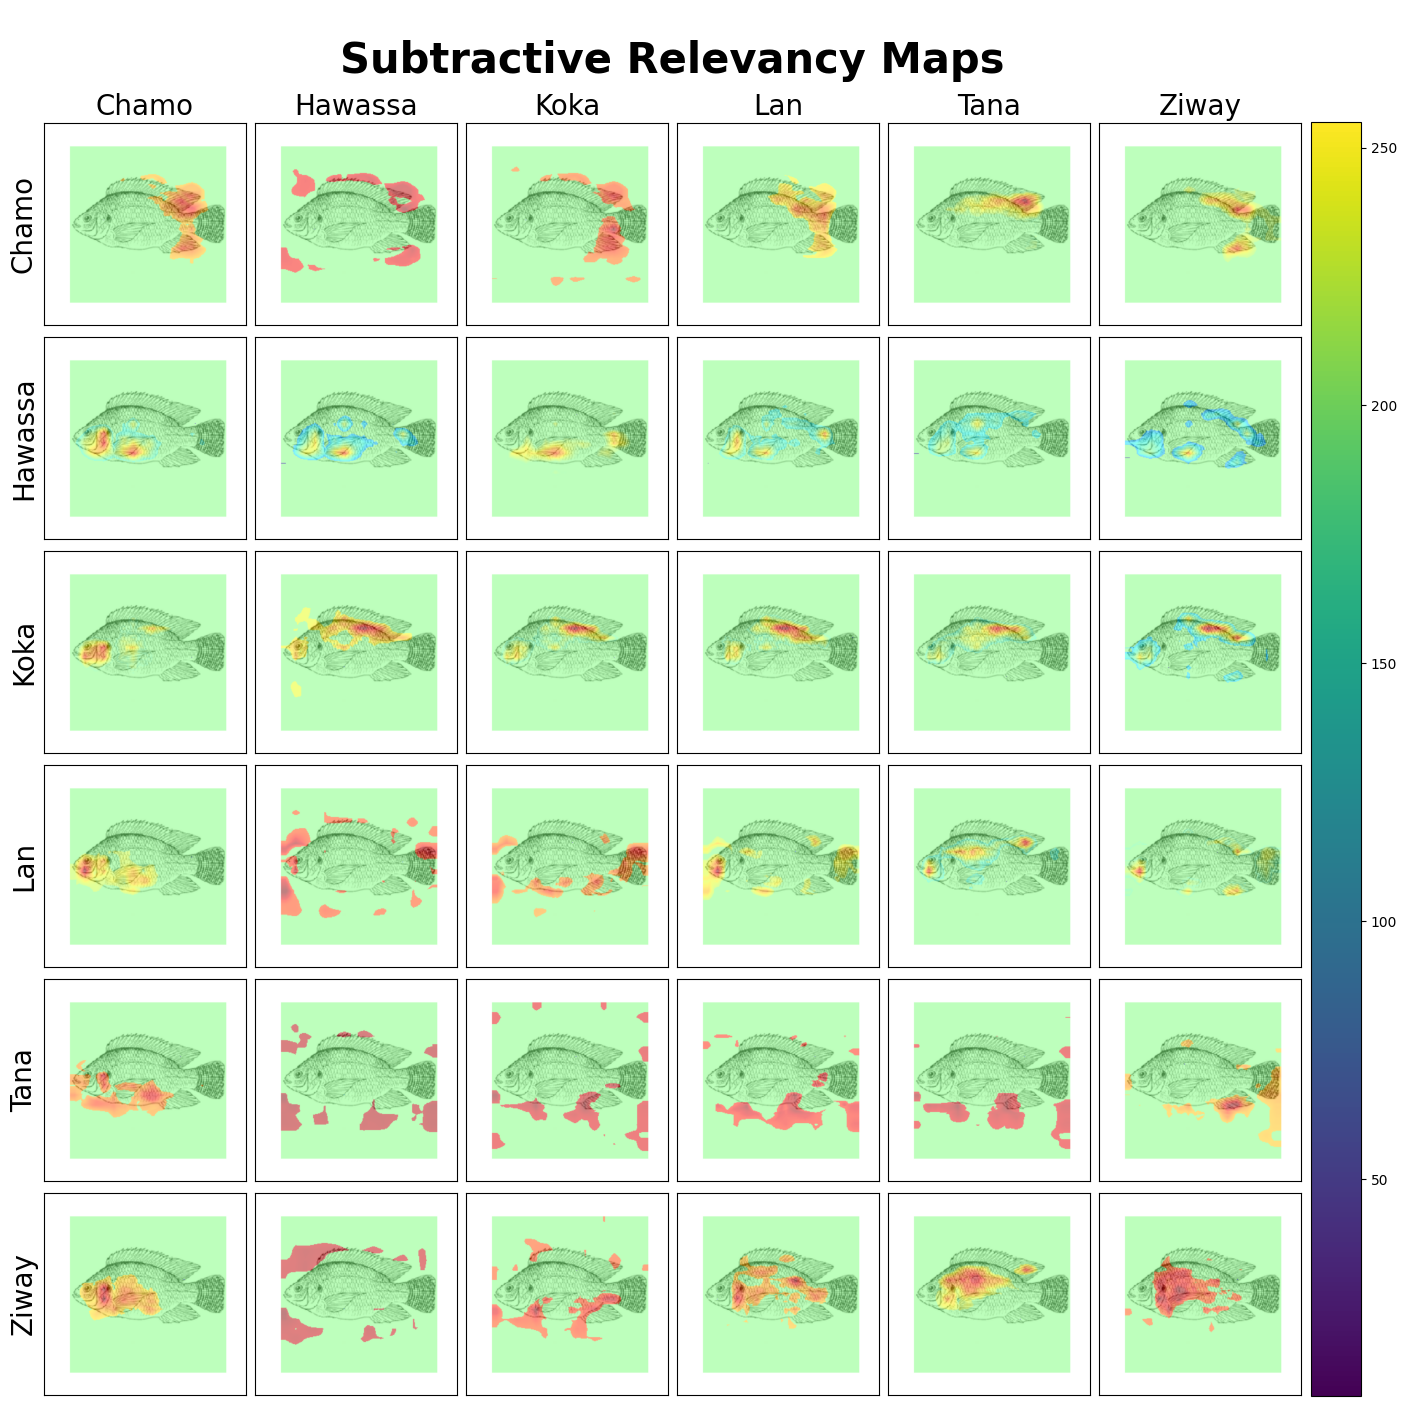
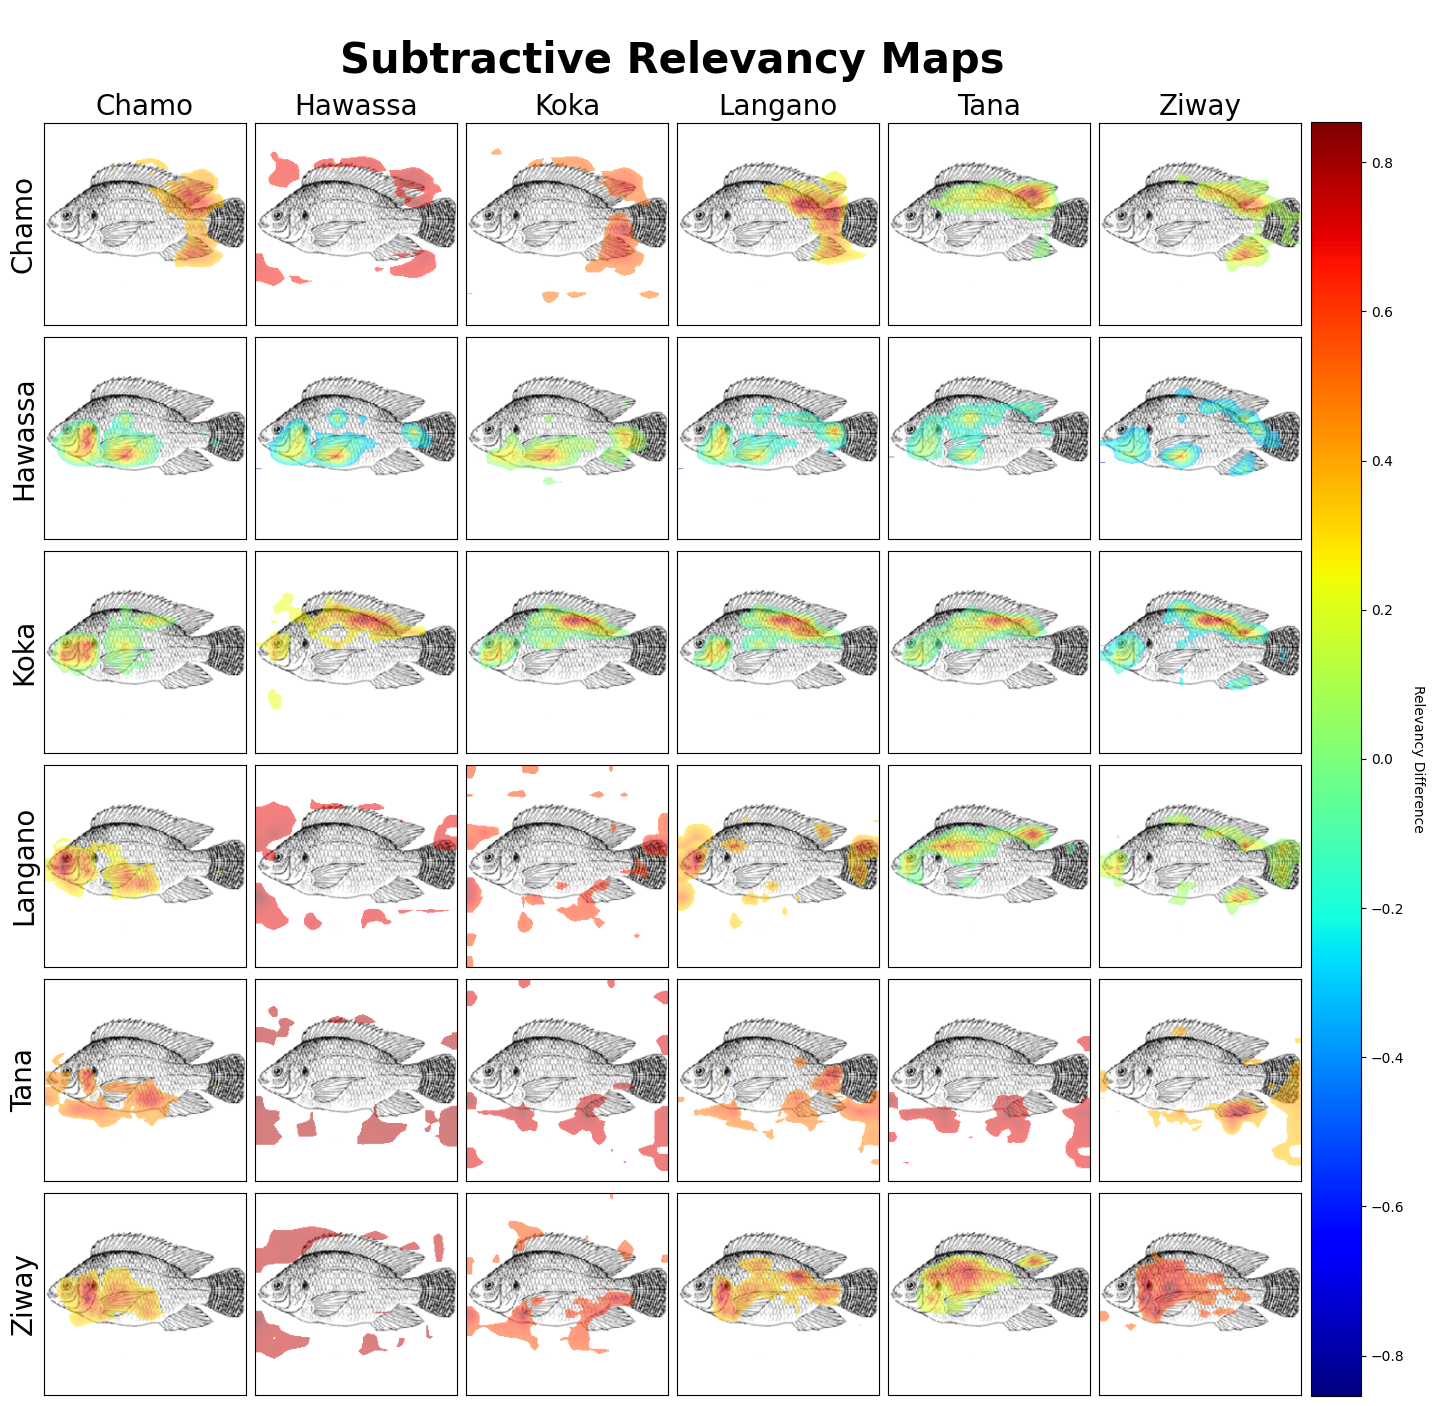
improved analysis

diff --git a/code/visualize.py b/code/visualize.py
@@ -6,7 +6,7 @@ from matplotlib.offsetbox import OffsetImage, AnnotationBbox
 from matplotlib import cm
 from skimage.transform import resize
 
-from config import cutoffWeightAttention, transparencyAboveCutoff, cmapType, resultsFolder, classes, relevancyOperations, pathImages
+from config import cutoffWeightAttention, transparencyAboveCutoff, cmapType, resultsFolder, classes, relevancyOperations, pathImages, percentile
 
 def boxCoordinates(i, xLim, yLim, rows, cols):
     offsetX = xLim / cols
@@ -182,14 +182,48 @@ def visualizeRelevancyMap(relevancyMapDict, saveImages = False):
             plt.show()
 
 def combineRelevancyMaps(mapDict):
-    def saveHeatmap(array, name):
+    def saveHeatmap(array, className, operationName):
+        fishImagePath = os.path.join(pathImages, f"{className}01.jpg")
+        if className == "allClasses":
+            fishImagePath = "../data/oreochromis niloticus_modified.png"
+        
         savePath = os.path.join(resultsFolder, "summary")
-        plt.figure(figsize=(6, 6))
-        plt.imshow(array, cmap=cmapType)
-        plt.axis("off")
-        plt.colorbar()
-        plt.savefig(os.path.join(savePath, f"{name}RelevancyMap.png"))
-        plt.close()
+        
+        # Filter to show only top X% of relevancies
+        array_filtered = array.copy()
+        threshold = np.percentile(np.abs(array_filtered[array_filtered != 0]), 100-percentile)
+        array_filtered[np.abs(array_filtered) < threshold] = 0  #all else = 0
+        
+        if os.path.exists(fishImagePath):
+            vmax = np.max(np.abs(array_filtered[array_filtered != 0])) if np.any(array_filtered != 0) else 1
+            vmin = -vmax
+            overlayImage = overlayFishWithRelevancy(fishImagePath, array_filtered, vmin, vmax, 0.5)
+            
+            fig, ax = plt.subplots(figsize=(8, 6))
+            ax.imshow(overlayImage)
+            ax.axis("off")
+            
+            cmap = plt.cm.get_cmap(cmapType)
+            norm = plt.Normalize(vmin=vmin, vmax=vmax)
+            sm = plt.cm.ScalarMappable(cmap=cmap, norm=norm)
+            sm.set_array([])  # Empty array for the mappable
+            
+            cbar = plt.colorbar(sm, ax=ax, shrink=0.8)
+            cbar.set_label('Relevancy (Top 10%)', rotation=270, labelpad=15)
+            
+            plt.savefig(os.path.join(savePath, f"{className}_{operationName}_RelevancyMap.png"), 
+                       bbox_inches='tight', dpi=100)
+            plt.close()
+        else:
+            # Fallback: regular heatmap without overlay
+            plt.figure(figsize=(6, 6))
+            vmax = np.max(np.abs(array_filtered[array_filtered != 0])) if np.any(array_filtered != 0) else 1
+            vmin = -vmax
+            im = plt.imshow(array_filtered, cmap=cmapType, vmin=vmin, vmax=vmax)
+            plt.axis("off")
+            plt.colorbar(im)
+            plt.savefig(os.path.join(savePath, f"{className}_{operationName}_RelevancyMap.png"))
+            plt.close()
     
     relevancies = {name: [] for name in classes}
     for indivKey, indivEntry in mapDict.items():
@@ -208,19 +242,19 @@ def combineRelevancyMaps(mapDict):
         if relevancyOperations["mean"]:
             mean = np.mean(np.stack(relevancies[className], axis=0), axis=0)
             classSummaries["mean"][className] = mean
-            saveHeatmap(mean, f"{className}_mean")
+            saveHeatmap(mean, className, "mean")
         if relevancyOperations["median"]:
             median = np.median(np.stack(relevancies[className], axis=0), axis=0)
             classSummaries["median"][className] = median
-            saveHeatmap(median, f"{className}_median")
+            saveHeatmap(median, className, "median")
         if relevancyOperations["std"]:
             std = np.std(np.stack(relevancies[className], axis=0), axis=0)
             classSummaries["std"][className] = std
-            saveHeatmap(std, f"{className}_std")
+            saveHeatmap(std, className, "std")
         if relevancyOperations.get("max", False):
             maxArray = np.max(np.stack(relevancies[className], axis=0), axis=0)
             classSummaries["max"][className] = maxArray
-            saveHeatmap(maxArray, f"{className}_max")
+            saveHeatmap(maxArray, className, "max")
 
     allClasses = []
     for className, relevancyList in relevancies.items():
@@ -228,19 +262,19 @@ def combineRelevancyMaps(mapDict):
 
     if relevancyOperations.get("mean", False):
         meanAll = np.mean(allClasses, axis=0)
-        saveHeatmap(meanAll, "allClasses_mean")
+        saveHeatmap(meanAll, "allClasses", "mean")
 
     if relevancyOperations.get("median", False):
         medianAll = np.median(allClasses, axis=0)
-        saveHeatmap(medianAll, "allClasses_median")
+        saveHeatmap(medianAll, "allClasses", "median")
 
     if relevancyOperations.get("std", False):
         stdAll = np.std(allClasses, axis=0)
-        saveHeatmap(stdAll, "allClasses_std")
+        saveHeatmap(stdAll, "allClasses", "std")
 
     if relevancyOperations.get("max", False):
         maxAll = np.max(allClasses, axis=0)
-        saveHeatmap(maxAll, "allClasses_max")
+        saveHeatmap(maxAll, "allClasses", "max")
     
     print(f"Total relevancy maps across all classes: {len(allClasses)}")
 
@@ -248,21 +282,44 @@ def combineRelevancyMaps(mapDict):
 
 def overlayFishWithRelevancy(fishImagePath, resultFiltered, vmin, vmax, alpha=0.5):
     fishImage = mpimg.imread(fishImagePath)
-    
-    if fishImage.shape[-1] == 4:
-        fishImage = fishImage[:, :, :3]
-    
-    fig, ax = plt.subplots(figsize=(10, 10))
-    ax.axis('off')
-    ax.imshow(fishImage)
-    
-    im = ax.imshow(resultFiltered, cmap=cmapType, vmin=vmin, vmax=vmax, alpha=alpha)
+    # Handle different image formats properly
+    if fishImage.ndim == 2:  # Already grayscale
+        fishImage = np.stack([fishImage] * 3, axis=-1)  # Convert to RGB
+    elif fishImage.ndim == 3:
+        if fishImage.shape[2] == 1:  # Grayscale with extra dimension
+            fishImage = np.squeeze(fishImage, axis=2)
+            fishImage = np.stack([fishImage] * 3, axis=-1)
+        elif fishImage.shape[2] == 4:  # RGBA
+            fishImage = fishImage[:, :, :3]
+        elif fishImage.shape[2] == 3:  # Already RGB
+            pass  # Do nothing
+        else:
+            print(f"Warning: Unexpected image shape {fishImage.shape}")
+            fishImage = fishImage[:, :, :3]
 
-    fig.canvas.draw()
-    buf = np.array(fig.canvas.renderer.buffer_rgba())[:, :, :3]
-    plt.close(fig)
     
-    return buf
+    if fishImage.max() > 1: #normalize
+        fishImage = fishImage / 255.0
+    
+    cmap = plt.cm.get_cmap(cmapType)
+    
+    zero_mask = (resultFiltered == 0)   #zero values remain unchaged
+    
+    norm_relevancy = (resultFiltered - vmin) / (vmax - vmin)    #normalize relevancy
+    norm_relevancy = np.clip(norm_relevancy, 0, 1)
+    
+    colored_relevancy = cmap(norm_relevancy)[:, :, :3]  #apply relevancy
+    
+    alpha_mask = np.ones_like(resultFiltered) * alpha
+    alpha_mask[zero_mask] = 0  #zero values = transparent
+    
+    #combine masks
+    combined = fishImage * (1 - alpha_mask[:, :, np.newaxis]) + colored_relevancy * alpha_mask[:, :, np.newaxis]
+    
+    # Ensure values are in valid range
+#    combined = np.clip(combined, 0, 1)
+    
+    return combined
 
 def main():
     print("main")

diff --git a/code/relevancy.py b/code/relevancy.py
@@ -70,7 +70,9 @@ def relevancySubstractions(classRelevancies):
         for j in range(6):
             axes[i, j] = fig.add_subplot(gs[i+1, j])
     
-    im = None
+    # Variables to track vmin/vmax for consistent colorbar
+    global_vmin = float('inf')
+    global_vmax = float('-inf')
     
     for operation, isEnabled in relevancyOperations.items():
         nClass1 = 0
@@ -94,11 +96,16 @@ def relevancySubstractions(classRelevancies):
                     # Use symmetric normalization to ensure 0 maps to white
                     vmax = np.max(np.abs(resultFiltered[resultFiltered != 0]))  # Exclude the 0 values
                     vmin = -vmax
+                    
+                    # Track global min/max for colorbar
+                    global_vmin = min(global_vmin, vmin)
+                    global_vmax = max(global_vmax, vmax)
 
                     fishImagePath = "../data/oreochromis niloticus_modified.png"
                     combinedImage = visualize.overlayFishWithRelevancy(fishImagePath, resultFiltered, vmin, vmax, 0.5)
                     
-                    im = axes[nClass1, nClass2].imshow(combinedImage)
+                    # Display the overlay image
+                    axes[nClass1, nClass2].imshow(combinedImage)
                     axes[nClass1, nClass2].set_xticks([])
                     axes[nClass1, nClass2].set_yticks([])
 
@@ -111,10 +118,15 @@ def relevancySubstractions(classRelevancies):
                 nClass1 += 1
                 nClass2 = 0
     
-    #colorbar
-    if im is not None:
-        cbar_ax = fig.add_subplot(gs[1:7, 6])
-        fig.colorbar(im, cax=cbar_ax)
+    # Create proper colorbar using ScalarMappable
+    cbar_ax = fig.add_subplot(gs[1:7, 6])
+    cmap = plt.cm.get_cmap(cmapType)
+    norm = plt.Normalize(vmin=global_vmin, vmax=global_vmax)
+    sm = plt.cm.ScalarMappable(cmap=cmap, norm=norm)
+    sm.set_array([])
+    
+    cbar = fig.colorbar(sm, cax=cbar_ax)
+    cbar.set_label('Relevancy Difference', rotation=270, labelpad=15)
     
     plt.tight_layout()
     savePath = os.path.join(resultsFolder, "summary", "subtractive_relevancyMap.png")

diff --git a/code/config.py b/code/config.py
@@ -1,6 +1,6 @@
 #general
 setTypes = ["train", "test", "validation"]
-classes = ["Chamo", "Hawassa", "Koka", "Lan", "Tana", "Ziway"]
+classes = ["Chamo", "Hawassa", "Koka", "Langano", "Tana", "Ziway"]
 pathImages = "../data/images"
 #classes = ["Bear", "Bird", "Cat", "Cow", "Deer", "Dog", "Dolphin", "Elephant", "Giraffe", "Horse", "Kangaroo", "Lion", "Panda", "Tiger", "Zebra"]
 
@@ -25,5 +25,8 @@ relevancyOperations = {
     "std" : False,
     "max" : False
 }
+#summarized Relevancy
+percentile = 10
+#Subtractive Relevancy
 topPercentile = 10
 lowPercentile = 0
